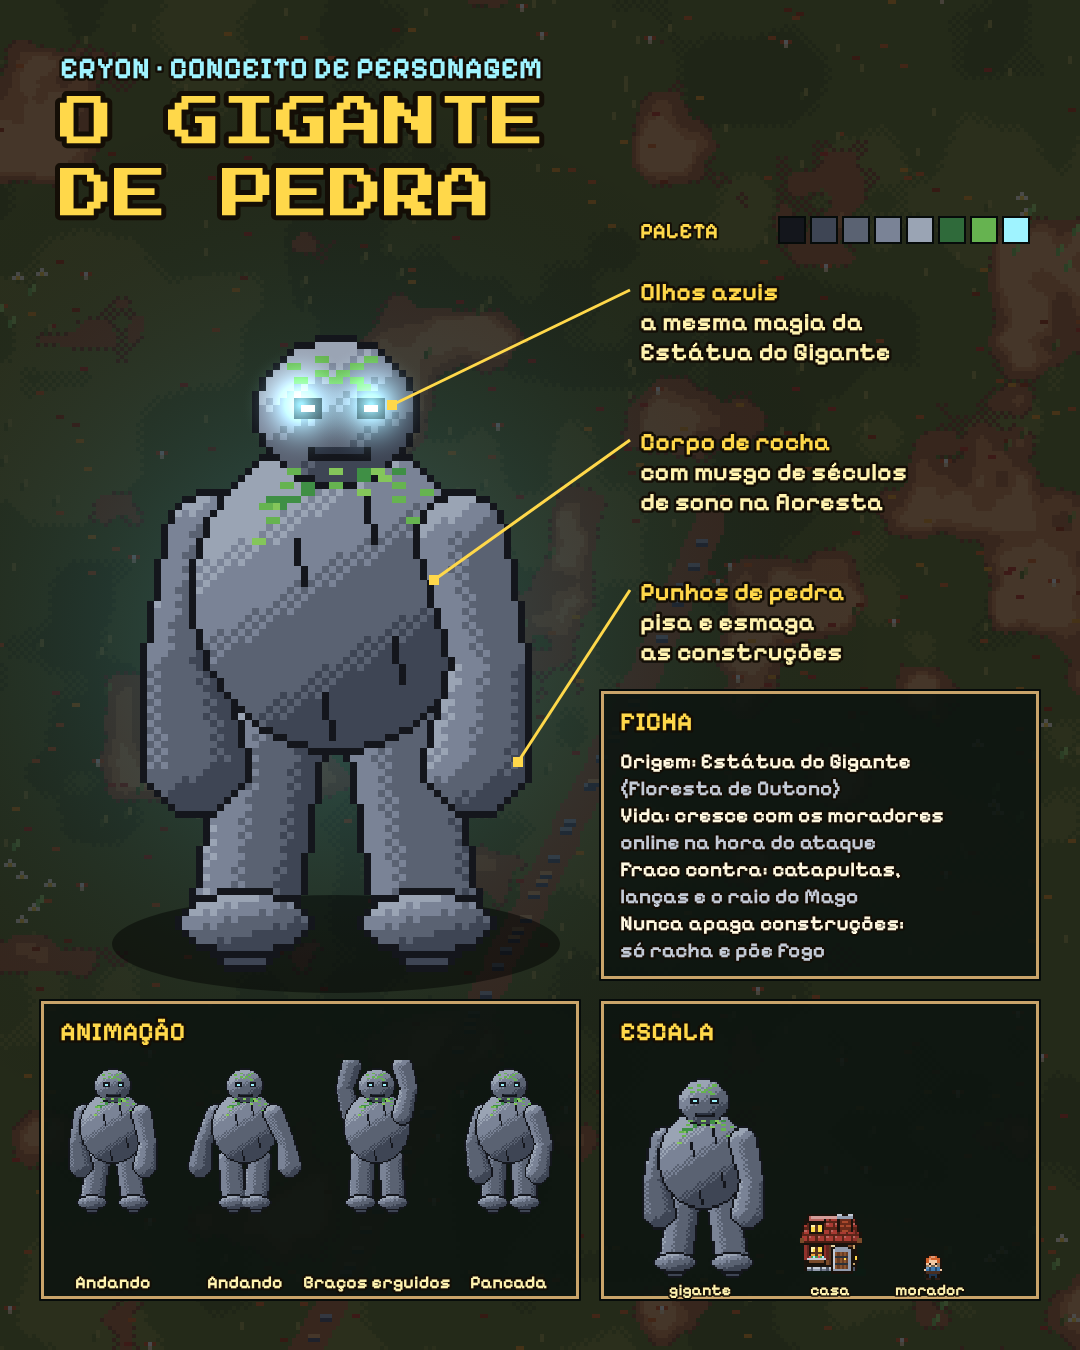
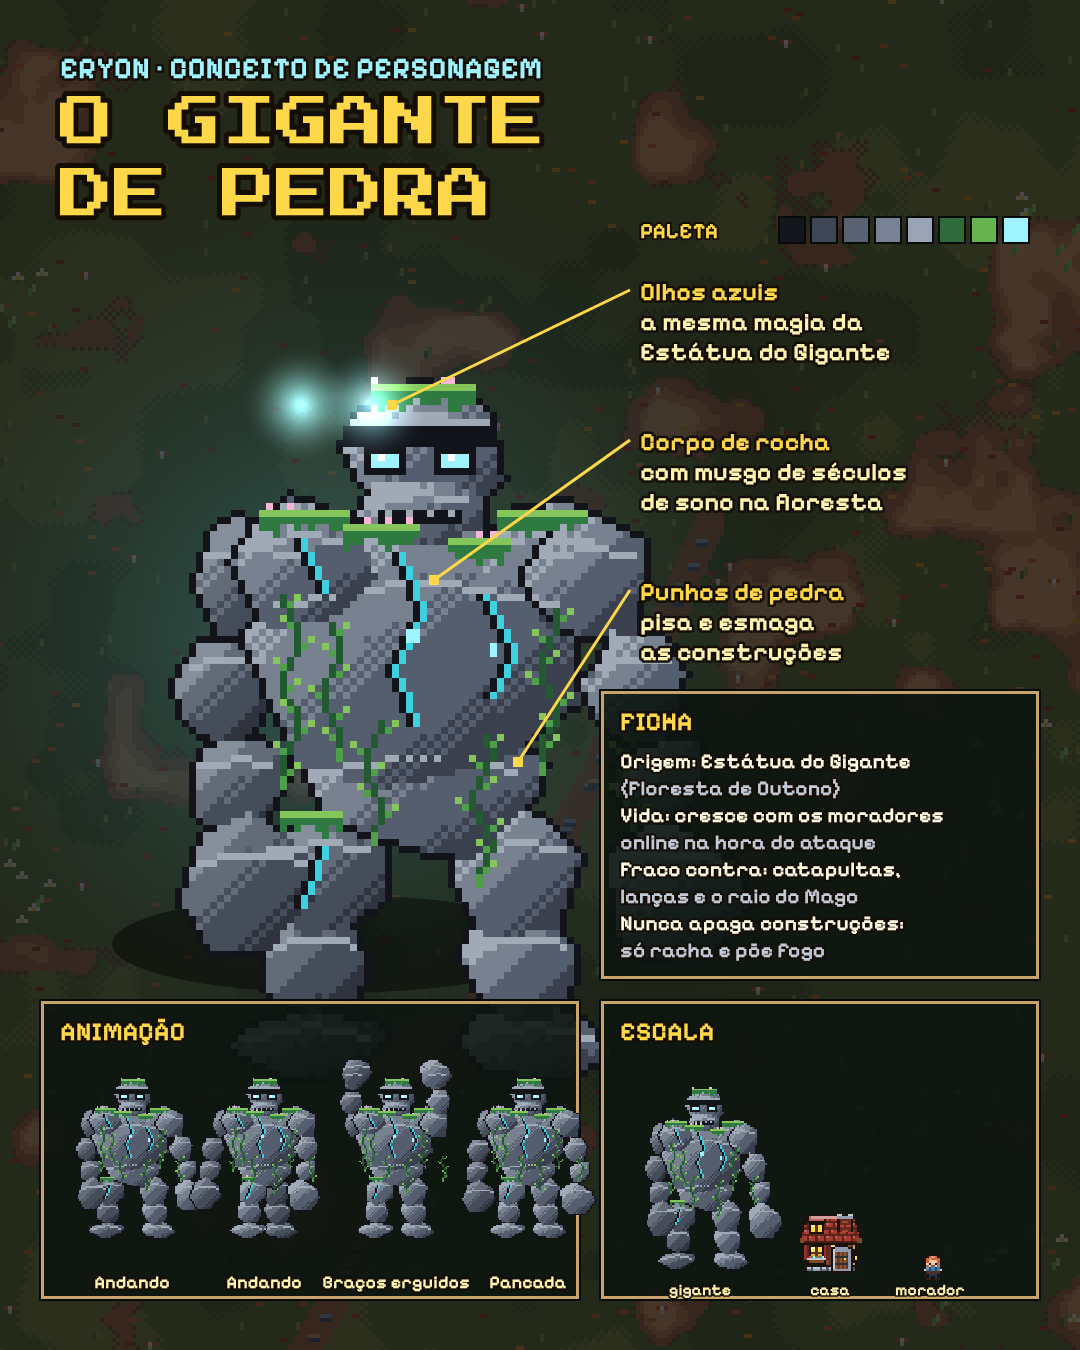
Eryon Online: Gigante de Pedra redesenhado (rochas irregulares, musgo, cipós, rachaduras mágicas, pedras flutuando) e catapultas com braço animado ao disparar
Claude-Session: https://claude.ai/code/session_01CKkJqFD4jsqFfLJStt98Gp

Changed region(s): [[0.0611, 0.2489, 0.6417, 0.9644], [0.5806, 0.7778, 0.7333, 0.9644]]

diff --git a/eryon-online/public/giant.js b/eryon-online/public/giant.js
@@ -2,57 +2,104 @@
 // EVENTO: O GIGANTE DE PEDRA — desenho, efeitos, contagem regressiva, ataques, catapultas e consertos
 // =====================================================================
 let GIANT = { at: 0, state: 'none', result: '', damaged: new Set(), live: null };
-const GFX = { shots: [], hits: [], smash: [], shakeUntil: 0, view: null };
+const GFX = { shots: [], hits: [], smash: [], shakeUntil: 0, view: null, catFire: {} };
 // ---------- sprite do gigante (pedra com musgo e olhos azuis, como a estátua)
 const GSPR = {};
-function giantSprite(f) {   // f: 0/1 andando, 2 braços para cima, 3 pancada
-  if (GSPR[f]) return GSPR[f]; const W = 76, H = 96, [c, x] = canvas(W, H), pt = painter(x), ST = ['#3e4554', '#5a6272', '#7a8396', '#9aa4b4'], O = '#14161c', M = ['#2f6a3a', '#3f8f45', '#66b350', '#84c65a'];
-  const cx = 38, legY = 92, sw = f === 0 ? 1 : f === 1 ? -1 : 0;
-  // pernas
-  pt.tube([[cx - 9, 62, 7], [cx - 10 - sw * 3, legY - 4, 7]], 7, ST, O).tube([[cx + 9, 62, 7], [cx + 10 + sw * 3, legY - 4, 7]], 7, ST, O).done();
-  pt.ell(cx - 10 - sw * 3, legY - 3, 9, 4, ST, O).ell(cx + 10 + sw * 3, legY - 3, 9, 4, ST, O).done();
+function giantSprite(f) {   // f: 0/1 andando, 2 braços erguidos, 3 pancada — corpo de rochas empilhadas, musgo, cipós e magia
+  if (GSPR[f]) return GSPR[f]; const W = 100, H = 116, [c, x] = canvas(W, H), O = '#121419';
+  const ST = ['#3a404e', '#555e6e', '#78818f', '#a0a9b6'], SD = ['#2e333e', '#454c5a', '#636b79', '#858e9b'], M = ['#245a32', '#2f7a40', '#4f9f4a', '#84c65a'];
+  const cx = 50, foot = 110, sw = f === 0 ? 1 : f === 1 ? -1 : 0, up = f === 2, hit = f === 3;
+  const pt = painter(x), rocks = [], vines = [];
+  const R = (X, Y, rx, ry, back) => { rocks.push([X, Y, rx, ry, back]); };
+  // pernas (pedras empilhadas)
+  const lx = cx - 13 - sw * 3, rx2 = cx + 13 + sw * 3;
+  for (const [X, back] of [[lx, sw > 0], [rx2, sw < 0]]) { R(X, foot - 4, 11, 5, back); R(X + (X < cx ? 1 : -1), foot - 15, 8, 8, back); R(X + (X < cx ? 2 : -2), foot - 28, 9, 9, back); }
   // braço de trás
-  const up = f === 2, hit = f === 3;
-  const armB = up ? [[cx - 16, 34, 6], [cx - 20, 18, 5], [cx - 16, 4, 6]] : hit ? [[cx - 16, 34, 6], [cx - 22, 52, 5], [cx - 18, 70, 7]] : [[cx - 18, 34, 6], [cx - 24 + sw * 2, 52, 5], [cx - 24 + sw * 4, 66, 7]];
-  pt.tube(armB, 6, ST, O, -.15).done();
-  // tronco e cabeça
-  pt.ell(cx, 42, 20, 22, ST, O, .05).done(); pt.ell(cx, 16, 11, 10, ST, O, .1).done();
-  for (let i = 0; i < 30; i++) { const a = 3.5 + h2(i, 7) * 2.4, r = .7 + h2(7, i) * .25; px(x, M[(i % 3) + 1], Math.round(cx + Math.cos(a) * 19 * r), Math.round(42 + Math.sin(a) * 21 * r), 2, 1); }
-  for (let i = 0; i < 10; i++) px(x, M[2], Math.round(cx - 8 + h2(i, 3) * 16), Math.round(8 + h2(i, 4) * 4), 2, 1);
-  for (const [X, Y] of [[cx - 6, 34], [cx + 8, 48], [cx - 2, 56], [cx + 4, 28]]) { px(x, O, X, Y, 1, 4); px(x, O, X + 1, Y + 4, 1, 3); }   // rachaduras
-  px(x, O, cx - 6, 14, 4, 3); px(x, O, cx + 3, 14, 4, 3); px(x, '#9ff3ff', cx - 5, 15, 2, 1); px(x, '#9ff3ff', cx + 4, 15, 2, 1);   // olhos
-  px(x, O, cx - 4, 21, 9, 2); px(x, '#2b3240', cx - 3, 21, 7, 1);                                                                       // boca
-  // braço da frente
-  const armF = up ? [[cx + 16, 34, 6], [cx + 20, 18, 5], [cx + 16, 4, 6]] : hit ? [[cx + 16, 34, 6], [cx + 22, 52, 5], [cx + 18, 70, 7]] : [[cx + 18, 34, 6], [cx + 24 - sw * 2, 52, 5], [cx + 24 - sw * 4, 66, 7]];
-  pt.tube(armF, 6, ST, O, .1).done();
-  return GSPR[f] = { r: c, l: flipped(c), W, H };
+  const arm = (side, back) => { const s2 = side, sx = cx + s2 * 24;
+    if (up) { R(sx, 40, 9, 9, back); R(sx + s2 * 3, 26, 7, 8, back); R(sx + s2 * 2, 12, 7, 7, back); R(sx, 2 + 6, 10, 9, back); }
+    else if (hit) { R(sx, 40, 9, 9, back); R(sx + s2 * 6, 56, 7, 8, back); R(sx + s2 * 8, 70, 7, 7, back); R(sx + s2 * 6, 86, 11, 10, back); }
+    else { const k = s2 * sw * (back ? -1 : 1); R(sx, 40, 9, 9, back); R(sx + s2 * 5 + k * 2, 55, 7, 8, back); R(sx + s2 * 6 + k * 4, 69, 7, 7, back); R(sx + s2 * 6 + k * 6, 84, 10, 10, back); } };
+  arm(-1, true);
+  // tronco: bacia, peito grande e ombros
+  R(cx, 70, 17, 10, false); R(cx, 50, 23, 19, false); R(cx - 17, 38, 10, 9, false); R(cx + 17, 38, 10, 9, false);
+  // cabeça: bloco com sobrancelha e mandíbula
+  R(cx, 22, 12, 11, false); R(cx, 30, 9, 5, false);
+  // desenha (pedras de trás mais escuras), cada camada com contorno
+  // cada pedra é um polígono irregular (quinas e faces), não uma bola
+  const rock = (X, Y, rx, ry, pal, i) => { const n = 7 + (i % 3), pts = []; for (let k = 0; k < n; k++) { const a = k / n * 6.283 + h2(i, k) * .5, j = .78 + h2(k, i + 3) * .3; pts.push([X + Math.cos(a) * rx * j * 1.08, Y + Math.sin(a) * ry * j * 1.08]); } pt.poly(pts, pal, O, .08); };
+  for (const back of [true, false]) { rocks.forEach(([X, Y, rx, ry, b2], i) => { if (!!b2 === back) rock(X, Y, rx, ry, back ? SD : ST, i + f * 0); }); pt.done(); }
+  arm(1, false); rocks.slice(-4).forEach(([X, Y, rx, ry], i) => rock(X, Y, rx, ry, ST, 40 + i)); pt.done();
+  // faces das pedras: uma aresta clara em cima de cada uma
+  rocks.forEach(([X, Y, rx, ry], i) => { const w = Math.round(rx * .9); for (let k = -w; k < w - 1; k++) { const yy = Math.round(Y - ry * .55 + Math.abs(k) * .18); const d = x.getImageData(Math.round(X + k), yy, 1, 1).data; if (d[3] && d[0] > 60) px(x, ST[3], Math.round(X + k), yy, 1, 1); } });
+  // juntas escuras entre as pedras e textura
+  for (let i = 0; i < 120; i++) { const X = Math.floor(h2(i, f + 3) * W), Y = Math.floor(h2(f + 3, i) * H); const d = x.getImageData(X, Y, 1, 1).data; if (d[3] && d[0] > 90 && h2(i, 9) > .5) px(x, ST[1], X, Y, 1, 1); }
+  // sobrancelha, olhos e boca
+  px(x, O, cx - 11, 18, 22, 3); px(x, ST[3], cx - 10, 17, 20, 1);
+  px(x, O, cx - 8, 21, 6, 4); px(x, O, cx + 2, 21, 6, 4); px(x, '#9ff3ff', cx - 7, 22, 4, 2); px(x, '#9ff3ff', cx + 3, 22, 4, 2); px(x, '#ffffff', cx - 6, 22, 1, 1); px(x, '#ffffff', cx + 4, 22, 1, 1);
+  px(x, O, cx - 6, 30, 12, 2); for (let k = 0; k < 4; k++) px(x, ST[3], cx - 5 + k * 3, 30, 1, 1);
+  // rachaduras com magia azul no peito, ombros e pernas
+  const crack = (pts) => { for (let i = 0; i < pts.length - 1; i++) { const [a1, b1] = pts[i], [a2, b2] = pts[i + 1], n = Math.max(Math.abs(a2 - a1), Math.abs(b2 - b1)); for (let k = 0; k <= n; k++) { const X = Math.round(a1 + (a2 - a1) * k / n), Y = Math.round(b1 + (b2 - b1) * k / n); px(x, O, X, Y, 1, 1); px(x, '#3fd0e0', X + 1, Y, 1, 1); } } };
+  crack([[cx - 4, 36], [cx - 1, 44], [cx - 5, 52], [cx - 2, 60]]); crack([[cx + 8, 42], [cx + 12, 50], [cx + 9, 56]]); crack([[cx - 18, 34], [cx - 15, 41]]); crack([[lx + 1, foot - 32], [lx - 2, foot - 24]]);
+  px(x, '#9ff3ff', cx - 2, 47, 2, 2); px(x, '#9ff3ff', cx + 10, 49, 1, 2);
+  // musgo no alto das pedras (ombros, cabeça, peito, punhos)
+  const moss = (X, Y, w) => { for (let k = -w; k <= w; k++) { const hh = 2 + Math.round(h2(X + k, Y) * 2); px(x, M[1], X + k, Y, 1, hh); px(x, M[3], X + k, Y, 1, 1); if (h2(k, X) > .82) { px(x, '#f6b6d8', X + k, Y - 1, 1, 1); } } };
+  moss(cx, 12, 7); moss(cx - 17, 30, 6); moss(cx + 17, 30, 6); moss(cx - 6, 32, 5); moss(cx + 8, 34, 4); moss(lx, foot - 37, 4);
+  // cipós pendurados com folhas
+  const vine = (X, Y, L, sway) => { let vx = X; for (let k = 0; k < L; k++) { vx += Math.sin(k * .5 + sway) * .6; px(x, M[0], Math.round(vx), Y + k, 1, 1); if (k % 3 === 1) { px(x, M[2], Math.round(vx) + (k % 2 ? 1 : -1), Y + k, 1, 1); px(x, M[3], Math.round(vx) + (k % 2 ? 2 : -2), Y + k - 1, 1, 1); } } px(x, M[2], Math.round(vx), Y + L, 1, 2); };
+  vine(cx - 20, 42, 26, f); vine(cx - 14, 46, 18, f + 1); vine(cx + 18, 44, 22, f + 2); vine(cx - 6, 60, 16, f + 3); vine(cx + 8, 62, 20, f + 1.5); vine(cx + 24 + (hit ? 8 : 6), 60, 14, f + 2.5);
+  // pedrinhas flutuando (magia)
+  const pebbles = [[cx - 34, 24, 3], [cx + 34, 20, 2], [cx - 30, 60, 2], [cx + 36, 52, 3]];
+  return GSPR[f] = { r: c, l: flipped(c), W, H, eyes: [[cx - 5, 23], [cx + 5, 23]], pebbles };
 }
 function giantFrame(t) { const L = GIANT.live; if (!L) return 0; if (L.phase === 'stomp') { const k = ((performance.now() - (GFX.lastSmashT || 0)) / 1000); return k < .25 ? 3 : (k > 2.2 ? 2 : 0); } return Math.floor(t * 2.2) % 2; }
-function drawGiant(x, t) {
-  const L = GIANT.live; if (!L) return; const f = giantFrame(t), s = giantSprite(f), X = Math.round(L.x), Y = Math.round(L.y);
-  x.fillStyle = 'rgba(8,20,16,.4)'; x.beginPath(); x.ellipse(X, Y, 26, 7, 0, 0, 6.283); x.fill();
-  x.drawImage(L.face > 0 ? s.l : s.r, X - 38, Y - 94);
-  glow(x, X - 2, Y - 79, 6, '#9ff3ff', .18 + .08 * Math.sin(t * 4)); glow(x, X + 6, Y - 79, 6, '#9ff3ff', .18 + .08 * Math.sin(t * 4));
-  if (performance.now() - (GFX.lastHitT || 0) < 160) { x.globalAlpha = .45; x.globalCompositeOperation = 'lighter'; x.drawImage(L.face > 0 ? s.l : s.r, X - 38, Y - 94); x.globalCompositeOperation = 'source-over'; x.globalAlpha = 1; }
+function drawGiantAt(x, X, Y, f, face, t, flash) {
+  const s = giantSprite(f), ox = X - s.W / 2, oy = Y - s.H + 4, flip = face > 0;
+  x.fillStyle = 'rgba(8,20,16,.42)'; x.beginPath(); x.ellipse(X, Y, 30, 8, 0, 0, 6.283); x.fill();
+  // pedrinhas flutuando em volta
+  for (const [px0, py0, r] of s.pebbles) { const ex = flip ? s.W - px0 : px0, bob = Math.sin(t * 2 + px0) * 2; disc(x, ox + ex, oy + py0 + bob, r + 1, '#121419'); disc(x, ox + ex, oy + py0 + bob, r, '#78818f'); px(x, '#a0a9b6', ox + ex - 1, oy + py0 + bob - 1, 1, 1); }
+  x.drawImage(flip ? s.l : s.r, ox, oy);
+  for (const [ex, ey] of s.eyes) glow(x, ox + (flip ? s.W - ex : ex), oy + ey, 6, '#9ff3ff', .2 + .08 * Math.sin(t * 4));
+  if (flash) { x.globalAlpha = .45; x.globalCompositeOperation = 'lighter'; x.drawImage(flip ? s.l : s.r, ox, oy); x.globalCompositeOperation = 'source-over'; x.globalAlpha = 1; }
 }
-// ---------- catapulta (objeto que todos podem criar)
+function drawGiant(x, t) { const L = GIANT.live; if (!L) return; drawGiantAt(x, Math.round(L.x), Math.round(L.y), giantFrame(t), L.face, t, performance.now() - (GFX.lastHitT || 0) < 160); }
+// ---------- catapulta (objeto que todos podem criar): base fixa + braço que gira quando dispara
 let CAT_SPR = null;
-function catapultSprite() { if (CAT_SPR) return CAT_SPR; const [c, x] = canvas(30, 24); x.fillStyle = 'rgba(10,30,20,.3)'; x.fillRect(2, 21, 27, 3);
-  px(x, P.ink, 2, 14, 26, 6); px(x, P.wood, 3, 15, 24, 4); px(x, P.woodL, 3, 15, 24, 1);
-  for (const X of [5, 22]) { disc(x, X, 20, 3, P.ink); disc(x, X, 20, 2, P.woodD); px(x, P.woodL, X, 19, 1, 1); }
-  px(x, P.ink, 12, 4, 4, 12); px(x, P.wood, 13, 5, 2, 10);
-  for (let k = 0; k < 14; k++) { const X = 14 - k, Y = 12 - Math.round(k * .55); px(x, P.ink, X, Y, 2, 3); px(x, P.woodL, X, Y + 1, 1, 1); }
-  px(x, P.ink, 0, 3, 6, 5); px(x, '#5a3420', 1, 4, 4, 3); px(x, P.st2, 2, 4, 2, 2); return CAT_SPR = { c, ax: 15, ay: 22 }; }
+function catapultSprite() { if (CAT_SPR) return CAT_SPR; const [c, x] = canvas(36, 30), O = '#1a120c', WD = ['#4a2f22', '#6b4630', '#8b5e3c', '#b8814a'];
+  x.fillStyle = 'rgba(10,30,20,.32)'; x.fillRect(2, 26, 33, 4);
+  // chassi com tábuas e cravos
+  px(x, O, 3, 17, 30, 7); px(x, WD[2], 4, 18, 28, 5); px(x, WD[3], 4, 18, 28, 1); px(x, WD[0], 4, 22, 28, 1); for (let X = 7; X < 31; X += 6) px(x, '#2b3138', X, 19, 1, 1);
+  // montantes em A e eixo
+  for (const X of [12, 22]) { px(x, O, X - 1, 6, 3, 13); px(x, WD[2], X, 7, 1, 11); } px(x, O, 10, 5, 16, 3); px(x, WD[3], 11, 6, 14, 1);
+  // corda enrolada no tambor
+  disc(x, 17, 15, 3, O); disc(x, 17, 15, 2, '#c9a46a'); px(x, '#8a6a3c', 16, 14, 3, 1); px(x, '#8a6a3c', 16, 16, 3, 1);
+  // rodas com raios
+  for (const X of [7, 29]) { disc(x, X, 24, 5, O); disc(x, X, 24, 4, WD[1]); ring(x, X, 24, 3, WD[3]); px(x, WD[0], X - 3, 24, 7, 1); px(x, WD[0], X, 21, 1, 7); disc(x, X, 24, 1, '#2b3138'); }
+  // pilha de pedras de munição
+  for (const [X, Y] of [[31, 15], [34, 15], [32, 12]]) { disc(x, X, Y, 2, O); px(x, '#939cae', X - 1, Y - 1, 2, 2); }
+  return CAT_SPR = { c, ax: 18, ay: 28 }; }
+function drawCatapultArm(x, d, t) {
+  // braço armado para trás (com pedra no cesto) que gira por cima até quase em pé ao disparar, e depois volta
+  const fired = GFX.catFire[d.id], k = fired ? (performance.now() - fired) / 1000 : 9, REST = 205, UP = 80;
+  const deg = k < .22 ? REST - (REST - UP) * (k / .22) ** 1.6 : k < .7 ? UP : k < 2.4 ? UP + (REST - UP) * ((k - .7) / 1.7) : REST, a = deg * Math.PI / 180, ca = Math.cos(a), sa = Math.sin(a);
+  const pivX = d.x, pivY = d.y - 20, L1 = 17, L2 = 6, O = '#1a120c';
+  const seg = (r0, r1, col, hi) => { for (let r = r0; r <= r1; r += .5) { const X = Math.round(pivX + ca * r), Y = Math.round(pivY - sa * r); px(x, O, X - 1, Y - 1, 3, 3); } for (let r = r0; r <= r1; r += .5) { const X = Math.round(pivX + ca * r), Y = Math.round(pivY - sa * r); px(x, Math.round(r) % 5 === 0 ? hi : col, X, Y, 1, 1); } };
+  seg(-L2, L1, '#8b5e3c', '#b8814a');
+  const bx = Math.round(pivX + ca * L1), by = Math.round(pivY - sa * L1); px(x, O, bx - 3, by - 2, 7, 5); px(x, '#6b4630', bx - 2, by - 1, 5, 3); px(x, '#8b5e3c', bx - 2, by - 1, 5, 1);
+  if (!fired || k > 2.0) { disc(x, bx, by - 3, 3, O); disc(x, bx, by - 3, 2, '#7a8396'); px(x, '#a0a9b6', bx - 1, by - 4, 1, 1); }
+  const cwx = Math.round(pivX - ca * L2), cwy = Math.round(pivY + sa * L2); px(x, O, cwx - 4, cwy - 3, 9, 8); px(x, '#565e70', cwx - 3, cwy - 2, 7, 6); px(x, '#7a8396', cwx - 3, cwy - 2, 7, 1); px(x, '#2b3138', cwx - 3, cwy + 1, 7, 1);
+  disc(x, pivX, pivY, 2, O); px(x, '#c9a46a', pivX, pivY, 1, 1);
+  if (fired && k < .5) burst(x, t, fired / 1000 + .2, bx, by, 8, ['#c9a46a', '#8b5e3c'], 14, .4, 10, d.id);
+}
 // ---------- mensagens do servidor
 function onGiantMsg(m) {
   if (m.t === 'giant') { const was = GIANT.state; GIANT.at = m.at; GIANT.state = m.state; GIANT.result = m.result; GIANT.damaged = new Set(m.damaged || []); GIANT.live = m.live;
     if (m.start) { giantHorn(); setTimeout(() => dragonRoar && SND.ctx && dragonRoar(.45), 900); fxToast('O GIGANTE ACORDOU!', 'Ele vem do leste. Defendam Eryon!', '#e04a3a', '⚠'); }
     if (m.end) { fxToast(m.end === 'won' ? 'VITÓRIA!' : 'A cidade foi danificada', m.end === 'won' ? 'Eryon venceu o Gigante de Pedra!' : 'Consertem as casas com lenha', m.end === 'won' ? '#ffd84a' : '#e04a3a', m.end === 'won' ? '♛' : '⚠'); if (m.end === 'won') fanfare(true); }
     updGiantHud(); return true; }
-  if (m.t === 'giantHit') { GFX.lastHitT = performance.now(); if (GIANT.live) GFX.hits.push({ x: GIANT.live.x + (Math.random() - .5) * 24, y: GIANT.live.y - 60 - Math.random() * 20, d: m.d, t0: performance.now(), big: m.d >= 20 }); if (m.kind === 'zap' && SND.ctx) thunder(); return true; }
+  if (m.t === 'giantHit') { GFX.lastHitT = performance.now(); if (GIANT.live) GFX.hits.push({ x: GIANT.live.x + (Math.random() - .5) * 30, y: GIANT.live.y - 70 - Math.random() * 24, d: m.d, t0: performance.now(), big: m.d >= 20 }); if (m.kind === 'zap' && SND.ctx) thunder(); return true; }
   if (m.t === 'giantSmash') { GFX.lastSmashT = performance.now(); GFX.smash.push({ x: m.x, y: m.y, t0: performance.now() }); const p = players.get(myId);
     if (p && !p.room && Math.hypot(p.x - m.x, p.y - m.y) < 260) { stomp(); shake(); } return true; }
-  if (m.t === 'catShot') { GFX.shots.push({ ...m, t0: performance.now() }); const p = players.get(myId); if (p && !p.room && Math.hypot(p.x - m.x, p.y - m.y) < 220) play('wood_hit', .5, .7); return true; }
+  if (m.t === 'catShot') { GFX.catFire[m.id] = performance.now(); GFX.shots.push({ ...m, t0: performance.now() + 200 }); const p = players.get(myId); if (p && !p.room && Math.hypot(p.x - m.x, p.y - m.y) < 220) play('wood_hit', .5, .7); return true; }
   return false;
 }
 // ---------- desenho dos efeitos no mundo
@@ -68,12 +115,12 @@ function drawGiantWorld(x, t, li, ti, cw, ch) {
     x.globalAlpha = 1 - k; ring(x, s.x, s.y, 6 + k * 34, '#c9a46a'); ring(x, s.x, s.y, 3 + k * 22, '#e4d0a0'); x.globalAlpha = 1; burst(x, t, s.t0 / 1000, s.x, s.y - 4, 18, ['#8b5e3c', '#c9a46a', '#6e7789'], 28, .9, 30, 9); }
   // pedras das catapultas em arco
   for (let i = GFX.shots.length - 1; i >= 0; i--) { const s = GFX.shots[i], k = (performance.now() - s.t0) / 800; if (k > 1.4) { GFX.shots.splice(i, 1); continue; }
-    if (k <= 1) { const X = s.x + (s.tx - s.x) * k, Y = s.y - 14 + (s.ty - 60 - s.y + 14) * k - Math.sin(k * Math.PI) * 70; px(x, P.ink, Math.round(X) - 3, Math.round(Y) - 3, 7, 7); px(x, P.st2, Math.round(X) - 2, Math.round(Y) - 2, 5, 5); px(x, P.st3, Math.round(X) - 2, Math.round(Y) - 2, 2, 2); }
+    if (k < 0) continue; if (k <= 1) { const X = s.x + (s.tx - s.x) * k, Y = s.y - 30 + (s.ty - 60 - s.y + 14) * k - Math.sin(k * Math.PI) * 70; px(x, P.ink, Math.round(X) - 3, Math.round(Y) - 3, 7, 7); px(x, P.st2, Math.round(X) - 2, Math.round(Y) - 2, 5, 5); px(x, P.st3, Math.round(X) - 2, Math.round(Y) - 2, 2, 2); }
     else { if (!s.boom) { s.boom = 1; const p = players.get(myId); if (p && Math.hypot(p.x - s.tx, p.y - s.ty) < 260) stomp(.5); } burst(x, t, s.t0 / 1000 + .8, s.tx, s.ty - 60, 22, ['#c3cad6', '#939cae', '#ffd84a'], 30, .6, 20, 3); } }
 }
 // ---------- textos na tela: nome, vida e números de dano
 function giantLabels(ctx2, L, T, S, fs) {
-  const G2 = GIANT.live; if (!G2) return; const sx = Math.round((G2.x - L) * S), sy = Math.round((G2.y - 100 - T) * S);
+  const G2 = GIANT.live; if (!G2) return; const sx = Math.round((G2.x - L) * S), sy = Math.round((G2.y - 118 - T) * S);
   if (sx > -300 && sx < cv.width + 300 && sy > -100 && sy < cv.height + 200) { ctx2.textAlign = 'center'; ctx2.textBaseline = 'bottom'; ctx2.font = `700 ${Math.round(fs * 1.05)}px Pix, monospace`; ctx2.lineWidth = Math.max(3, fs / 4); ctx2.strokeStyle = '#140e06'; ctx2.strokeText('GIGANTE DE PEDRA', sx, sy); ctx2.fillStyle = '#ff9a8a'; ctx2.fillText('GIGANTE DE PEDRA', sx, sy);
     const w = fs * 7, h = Math.max(6, fs * .45); ctx2.fillStyle = '#140e06'; ctx2.fillRect(sx - w / 2 - 2, sy + 3, w + 4, h + 4); ctx2.fillStyle = '#3a1410'; ctx2.fillRect(sx - w / 2, sy + 5, w, h); ctx2.fillStyle = '#e04a3a'; ctx2.fillRect(sx - w / 2, sy + 5, w * Math.max(0, G2.hp) / G2.max, h); }
   for (let i = GFX.hits.length - 1; i >= 0; i--) { const hh = GFX.hits[i], k = (performance.now() - hh.t0) / 900; if (k > 1) { GFX.hits.splice(i, 1); continue; }

diff --git a/eryon-online/public/economy.js b/eryon-online/public/economy.js
@@ -32,6 +32,7 @@ function econDecor(k) {
 }
 const GOOD_COL = { frutas: ['#e04a3a', '#ffd84a'], leite: ['#f4f0d8', '#c3cad6'], ovos: ['#f4ecd8', '#e8c890'], trufas: ['#4a3020', '#6b4630'], lenha: [P.wood, P.woodL], pedra: [P.st2, P.st3], ervas: ['#47994a', '#84c65a'], vaca: ['#f4f0d8', '#1a1a1a'], porco: ['#f0a0b0', '#d07890'], galinha: ['#ffffff', '#e04a3a'] };
 function drawEconDecor(x, d, t) {
+  if (d.kind === 'catapulta') drawCatapultArm(x, d, t);
   if (d.kind === 'barraca') { (d.shop || []).slice(0, 6).forEach((it, i) => { const [a, b] = GOOD_COL[it.k] || ['#c9a46a', '#ffd84a'], X = d.x - 11 + (i % 3) * 8, Y = d.y - 11 - Math.floor(i / 3) * 4;
       px(x, P.ink, X - 1, Y - 1, 6, 4); px(x, P.woodD, X, Y, 4, 2); px(x, a, X, Y - 1, 2, 1); px(x, b, X + 2, Y - 1, 2, 1); px(x, a, X + 1, Y - 2, 2, 1); }); }
   if (d.kind === 'pomar') { const ready = Date.now() - (d.lastH || 0) >= 4 * 60000; if (ready) for (const [ax2, ay2] of [[-5, -16], [3, -19], [6, -12], [-2, -10], [-7, -9]]) { px(x, '#7a1a14', d.x + ax2, d.y + ay2, 2, 2); px(x, '#e04a3a', d.x + ax2, d.y + ay2, 1, 1); } }

diff --git a/eryon-online/public/index.html b/eryon-online/public/index.html
@@ -285,8 +285,8 @@ body.clean #giantHud{display:none!important}body.cine #giantHud{display:none!imp
 <script src="dragons.js?v=60"></script>
 <script src="features.js?v=61"></script>
 <script src="castle.js?v=60"></script>
-<script src="economy.js?v=60"></script>
-<script src="giant.js?v=60"></script>
+<script src="economy.js?v=62"></script>
+<script src="giant.js?v=63"></script>
 <script src="game.js?v=60"></script>
 </body>
 </html>
